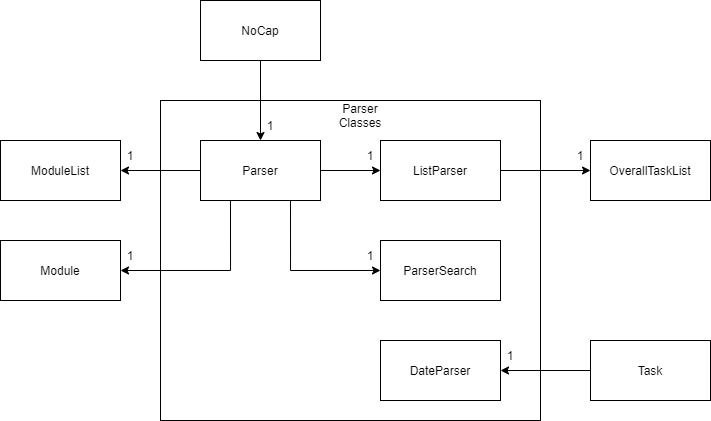
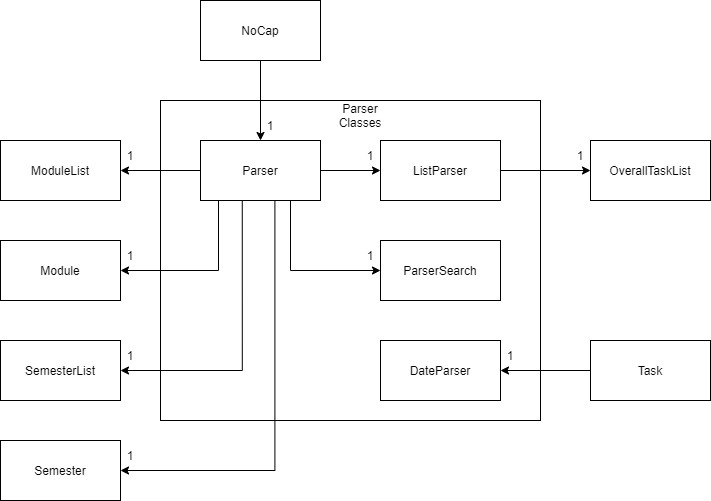
updateDG

diff --git a/docs/DeveloperGuide.md b/docs/DeveloperGuide.md
@@ -59,21 +59,43 @@ Third party libraries:
 
 **API** : <code>command.parser </code>
 
-Classes in parser components
+The Parser classes is responsible for receiving user input and converting it into commands which are directly passed to respective classes.
+
+The class diagram below is an overview of relationship between Parser classes and other classes.
 
 ![alt_text](media/ParserClassDiagram.jpg)
 
 How the parsing works:
-* `NoCap` passes the user input to `Parser` which separates the input into useful information such as taskType, taskDescription, Module, etc. This information is used to call the corresponding commands in `ModuleList`, `Module` and `OverallTaskList`.
-* When commands include task selection, `ParserSearch` methods `getTaskFromIndex()` and `getTaskFromKeyword()` are called. The corresponding task is returned if found.
-* When commands include listing tasks, the taskDescription is passed to `ListParser` which determines the method of sorting and calls `OverallTaskList` methods accordingly.
-* `DateParser` handles parsing String into LocalDateTime format and displaying LocalDateTime as String
+* `NoCap` passes the user input to `Parser` which separates the input into useful information such as taskType, taskDescription, Module, etc. 
+* This information is used to call the corresponding commands in `ModuleList`, `Module` , `SemesterList`, `Semester` and `OverallTaskList`.
+* When commands include **task selection**, `ParserSearch#getTaskFromIndex()` and `ParserSearch#getTaskFromKeyword()` are called. The corresponding task is returned if found.
+* When commands include **listing tasks**, the taskDescription is passed to `ListParser` which determines the method of sorting and calls `OverallTaskList` methods accordingly.
+* `DateParser` handles parsing String into LocalDateTime format and displaying LocalDateTime as String. It is utilized by `Task`.
 
-The Sequence Diagram below illustrates the interactions for the `list task sortbydate `user input.
+Below is a step by step example of how the parser receives and decipher a user input. In this example, the user enters `list task sortbydate`.   
 
+The Sequence Diagram below illustrates the process
 ![alt_text](media/ParserSequenceDiagram.png)
+**Note**: The alternate paths are omitted from the diagram for clarity.
 
-When splitString() is called the first time, taskType is set to “list”. The remaining string is stored as taskDescription and passed to `ListParser` where splitString() is called a second time, setting taskType to “task” and taskDescription to “sortbydate”.The corresponding method in `OverallTaskList` sortByDateAndPrint() is then called.
+Step 1)  
+`NoCap` creates a new `Parser` instance through the constructor. The parser class creates a `ListParser`.
+
+Step 2)  
+User enters `list task sortbydate`. `NoCap` passes the input to `Parser` through `chooseTask()` method.
+
+Step 3)  
+`splitInput` is called for the first time and splits the user input into `list` and `task sortbydate`. `list` matches a possible command String, calling `listParser()`.  
+
+Step 4)  
+`splitInput` is called a second time and splits the second part of user input into `task` and `sortbydate`. An instance of `OverallTask` is constructed.  
+
+Step 5)  
+`task` and `sortbydate` both matches possible command Strings, calling `sortByDateAndPrint`. 
+
+The diagram below illustrates the `splitString` process.  
+
+![alt_text](media/splitStringDiagram.jpg)
 
 
 # [Storage component](https://se-education.org/addressbook-level3/DeveloperGuide.html#logic-component)
